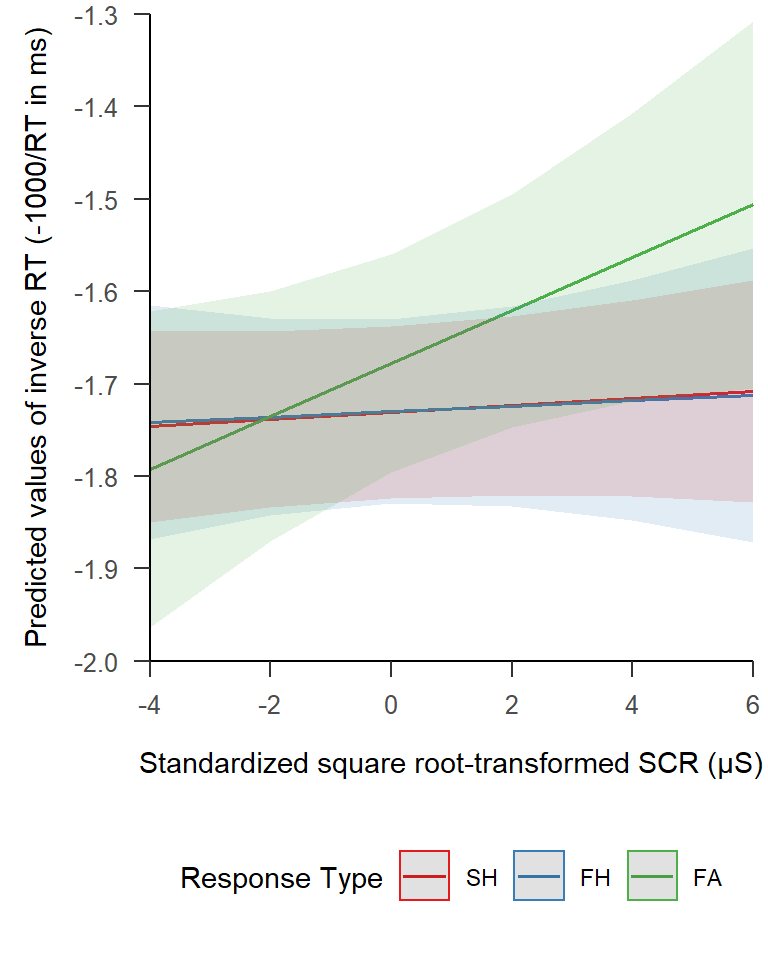
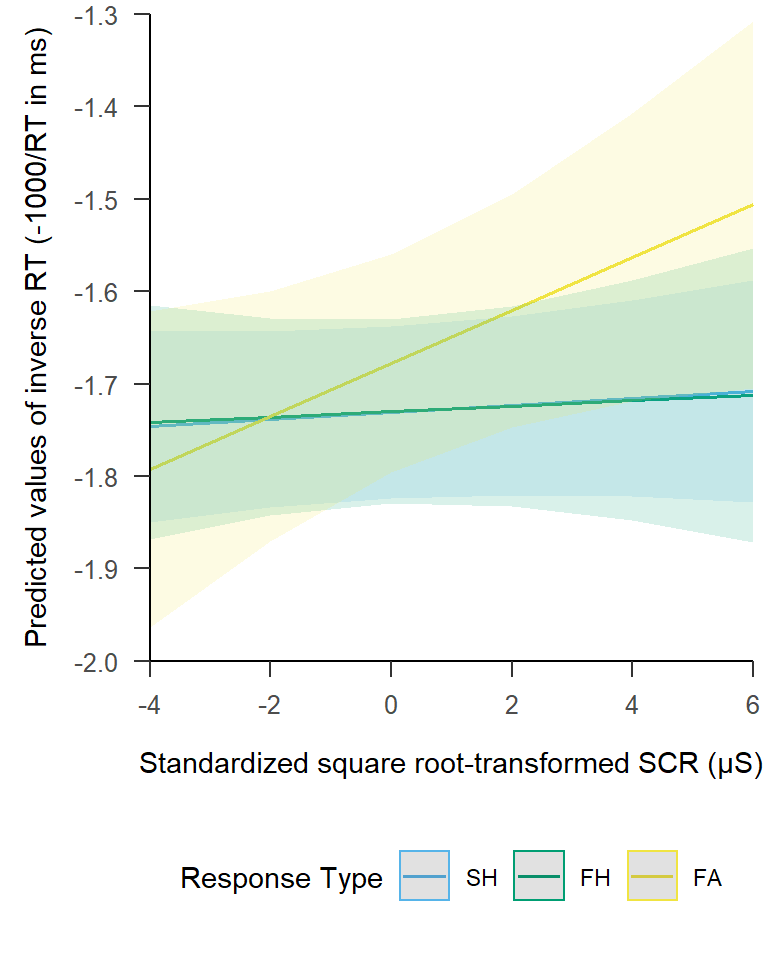
Minor changes in SCR - PES plot

diff --git a/3_SCR.html b/3_SCR.html
@@ -1495,64 +1495,42 @@ Observations
 </table>
 <p><br> Only for false alarms, but not for the other response types, an enhanced SCR was related to slower responses to words. We previously reported that false alarms were associated with PES in the subsequent word categorization. Taken together, these results suggest that following false alarms, SCR positively predicted PES. <br><br><br></p>
 </div>
-<div id="plot-pes---scr-finding" class="section level4">
-<h4>Plot PES - SCR Finding</h4>
-<p><br> The plot shows the predicted values (marginal effects) for the response type x SCR interation of the LMM. <br><br></p>
-<div id="model-on-inverse-rts-original" class="section level5">
-<h5>Model on inverse RTs (original)</h5>
-<pre class="r"><code># Original LMM doesn&#39;t work with plot_model: plot_model does not like interactions in random structure
-# Thus, I have to delete double bar syntax (model does still converge, is not singular)
-# Also: respecify model to have factors as fixed effects, not contrasts: needed to plot all levels of a factor, not only a specific contrast
-LMM_scr_priming_plot &lt;- lmer(word_rt_inverse ~ gng_response_type * word_valence * iscr_gng_resp_sqrt_z + 
-                                 (1 + gng_response_type * word_valence + iscr_gng_resp_sqrt_z | participant_id) +
-                                 (1 + gng_response_type                + iscr_gng_resp_sqrt_z | word),
-                               data = single_trial_data_scr,
-                               REML = TRUE,
-                               control = lmerControl(optimizer = &quot;bobyqa&quot;)
+<div id="plot-pes---scr-effect" class="section level4">
+<h4>Plot PES - SCR Effect</h4>
+<p>The plot shows the predicted values (marginal effects) for the response type x SCR interation of the LMM.</p>
+<pre class="r"><code># Respecify LMM without interactions stated with &quot;:&quot; in random structure (because plot_model does not like that) and to have 
+# fixed effects as factors, not contrasts (needed to have all factor levels in the plot)
+# Double bar syntax for zero-correlation parameter model won&#39;t work anymore (model still converges and fit is not singular)
+LMM_scr_priming_plot &lt;- lmer(word_rt_inverse ~ gng_response_type * word_valence * iscr_gng_resp_sqrt_z +
+  (1 + gng_response_type * word_valence + iscr_gng_resp_sqrt_z | participant_id) +
+  (1 + gng_response_type + iscr_gng_resp_sqrt_z | word),
+data = single_trial_data_scr,
+REML = TRUE,
+control = lmerControl(optimizer = &quot;bobyqa&quot;)
 )
 
 
-plot_model(LMM_scr_priming_plot, type = &quot;pred&quot;, terms = c(&quot;iscr_gng_resp_sqrt_z&quot;, &quot;gng_response_type&quot;), legend.title = &quot;Response Type&quot;) + 
-  labs(title = NULL, x = &quot;Standardized square root-transformed SCR (µS)&quot;, y = &quot;Predicted values of inverse RT (-1000/RT in ms)&quot;) +
-  theme_apa(base_size = 11) +
-  theme(legend.position = &quot;bottom&quot;, axis.title.y = element_text(vjust = -0.5)) +
+# Plot marginal effects
+plot_model(LMM_scr_priming_plot, 
+           type         = &quot;pred&quot;, 
+           terms        = c(&quot;iscr_gng_resp_sqrt_z&quot;, &quot;gng_response_type&quot;), 
+           legend.title = &quot;Response Type&quot;, 
+           colors       = c(&quot;#56B4E9&quot;, &quot;#009E73&quot;, &quot;#F0E442&quot;)) +
+  labs(title = NULL, 
+       x     = &quot;Standardized square root-transformed SCR (µS)&quot;, 
+       y     = &quot;Predicted values of inverse RT (-1000/RT in ms)&quot;) +
+  my_figure_theme +
+  theme(axis.ticks.x = NULL) + 
   scale_y_continuous(breaks=seq(-2, -1.3, 0.1), limits = c(-2, -1.3), expand = c(0,0)) +
   scale_x_continuous(breaks=seq(-4, 6, 2), limits = c(-4, 6), expand = c(0,0))</code></pre>
 <div class="figure">
-<img src="3_SCR_files/figure-html/plot-pes-scr-original-1.png" alt="Error bars indicate 95% confidence intervals." width="384" />
+<img src="3_SCR_files/figure-html/plot-pes-scr-original-1.png" alt="Note. Error bars indicate 95% confidence intervals." width="384" />
 <p class="caption">
-Error bars indicate 95% confidence intervals.
+Note. Error bars indicate 95% confidence intervals.
 </p>
 </div>
-<pre class="r"><code># ggsave(&quot;figure_scr_pes.tiff&quot;,width = 11, height = 13 , units = &quot;cm&quot;, dpi=600, compression = &quot;lzw&quot;)
-
-# Possibility 2: specify model as LMM_scr_priming_final (but specify factors as fixed effects, leave contrasts as random effects) but delete interactions from random structure (gives almost same result, a bit narrower CIs, but model results are more different to original model)
-
-# Possibility 3: I could specify LMM_scr_priming_plot with raw values to see how the plot would like on the raw RT scale (other back-transformation of estimates is not possible; only predictors can be back-transformed: https://github.com/strengejacke/sjPlot/issues/544)</code></pre>
-<p><br><br></p>
-</div>
-<div id="model-on-raw-rts" class="section level5">
-<h5>Model on raw RTs</h5>
-<p>This is just to see how the plot would like on the raw RT scale. The model is only approximately comparable to the original one (as it models the raw RT values, not the inverse-transformed values). For reporting, the plot based on the original model should be used.</p>
-<pre class="r"><code># I could plot LMM with raw values, other back transformation of estimates is not possible (only predictors can be backtransformed)
-LMM_scr_priming_plot_raw &lt;- lmer(word_rt ~ gng_response_type * word_valence * iscr_gng_resp_sqrt_z + 
-                                 (1 + gng_response_type * word_valence + iscr_gng_resp_sqrt_z | participant_id) +
-                                 (1 + gng_response_type                + iscr_gng_resp_sqrt_z | word),
-                               data = single_trial_data_scr,
-                               REML = TRUE,
-                               control = lmerControl(optimizer = &quot;bobyqa&quot;)
-)
-
-plot_model(LMM_scr_priming_plot_raw, type = &quot;pred&quot;, terms = c(&quot;iscr_gng_resp_sqrt_z&quot;, &quot;gng_response_type&quot;), legend.title = &quot;Response Type&quot;) + 
-  labs(title = NULL, x = &quot;Standardized square root-transformed SCR (µS)&quot;, y = &quot;Predicted values of RT (ms)&quot;) +
-  theme_apa(base_size = 11) +
-  theme(legend.position = &quot;bottom&quot;, axis.title.y = element_text(vjust = -0.5)) +
-  scale_y_continuous(breaks=seq(450, 900, 150), limits = c(450, 900), expand = c(0,0)) +
-  scale_x_continuous(breaks=seq(-4, 6, 2), limits = c(-4, 6), expand = c(0,0))</code></pre>
-<p><img src="3_SCR_files/figure-html/plot-pes-scr-raw-1.png" width="384" /></p>
-<pre class="r"><code># ggsave(&quot;figure_scr_pes_raw.tiff&quot;,width = 11, height = 13 , units = &quot;cm&quot;, dpi=600, compression = &quot;lzw&quot;)</code></pre>
+<pre class="r"><code># ggsave(&quot;figure_scr_pes.tiff&quot;,width = 11, height = 13 , units = &quot;cm&quot;, dpi=600, compression = &quot;lzw&quot;)</code></pre>
 <p><br><br><br></p>
-</div>
 </div>
 </div>
 </div>
@@ -2038,27 +2016,26 @@ loaded via a namespace (and not attached):
  [7] highr_0.8           yaml_2.2.0          bayestestR_0.7.2   
 [10] numDeriv_2016.8-1.1 pillar_1.4.2        backports_1.1.5    
 [13] lattice_0.20-38     glue_1.3.1          digest_0.6.22      
-[16] RColorBrewer_1.1-2  rvest_0.3.4         minqa_1.2.4        
-[19] colorspace_1.4-1    sandwich_2.5-1      htmltools_0.4.0    
-[22] pkgconfig_2.0.3     broom_0.5.2         haven_2.2.0        
-[25] purrr_0.3.3         xtable_1.8-4        mvtnorm_1.0-11     
-[28] webshot_0.5.1       scales_1.1.0        emmeans_1.4.2      
-[31] tibble_2.1.3        farver_2.0.1        generics_0.0.2     
-[34] sjlabelled_1.1.3    TH.data_1.0-10      withr_2.1.2        
-[37] survival_2.44-1.1   magrittr_1.5        crayon_1.3.4       
-[40] effectsize_0.3.2    estimability_1.3    evaluate_0.14      
-[43] nlme_3.1-140        forcats_0.4.0       xml2_1.2.2         
-[46] tools_3.6.1         hms_0.5.2           lifecycle_0.1.0    
-[49] multcomp_1.4-10     stringr_1.4.0       munsell_0.5.0      
-[52] ggeffects_0.15.1    compiler_3.6.1      rlang_0.4.2        
-[55] grid_3.6.1          nloptr_1.2.1        parameters_0.8.2   
-[58] rstudioapi_0.10     rmarkdown_1.16      boot_1.3-22        
-[61] gtable_0.3.0        codetools_0.2-16    sjstats_0.17.8     
-[64] sjmisc_2.8.2        R6_2.4.1            zoo_1.8-6          
-[67] performance_0.4.3   zeallot_0.1.0       insight_0.9.0      
-[70] readr_1.3.1         stringi_1.4.3       Rcpp_1.0.3         
-[73] vctrs_0.2.0         tidyselect_0.2.5    xfun_0.16          
-[76] coda_0.19-3        </code></pre>
+[16] rvest_0.3.4         minqa_1.2.4         colorspace_1.4-1   
+[19] sandwich_2.5-1      htmltools_0.4.0     pkgconfig_2.0.3    
+[22] broom_0.5.2         haven_2.2.0         purrr_0.3.3        
+[25] xtable_1.8-4        mvtnorm_1.0-11      webshot_0.5.1      
+[28] scales_1.1.0        emmeans_1.4.2       tibble_2.1.3       
+[31] farver_2.0.1        generics_0.0.2      sjlabelled_1.1.3   
+[34] TH.data_1.0-10      withr_2.1.2         survival_2.44-1.1  
+[37] magrittr_1.5        crayon_1.3.4        effectsize_0.3.2   
+[40] estimability_1.3    evaluate_0.14       nlme_3.1-140       
+[43] forcats_0.4.0       xml2_1.2.2          tools_3.6.1        
+[46] hms_0.5.2           lifecycle_0.1.0     multcomp_1.4-10    
+[49] stringr_1.4.0       munsell_0.5.0       ggeffects_0.15.1   
+[52] compiler_3.6.1      rlang_0.4.2         grid_3.6.1         
+[55] nloptr_1.2.1        parameters_0.8.2    rstudioapi_0.10    
+[58] rmarkdown_1.16      boot_1.3-22         gtable_0.3.0       
+[61] codetools_0.2-16    sjstats_0.17.8      sjmisc_2.8.2       
+[64] R6_2.4.1            zoo_1.8-6           performance_0.4.3  
+[67] zeallot_0.1.0       insight_0.9.0       readr_1.3.1        
+[70] stringi_1.4.3       Rcpp_1.0.3          vctrs_0.2.0        
+[73] tidyselect_0.2.5    xfun_0.16           coda_0.19-3        </code></pre>
 </div>
 
 
